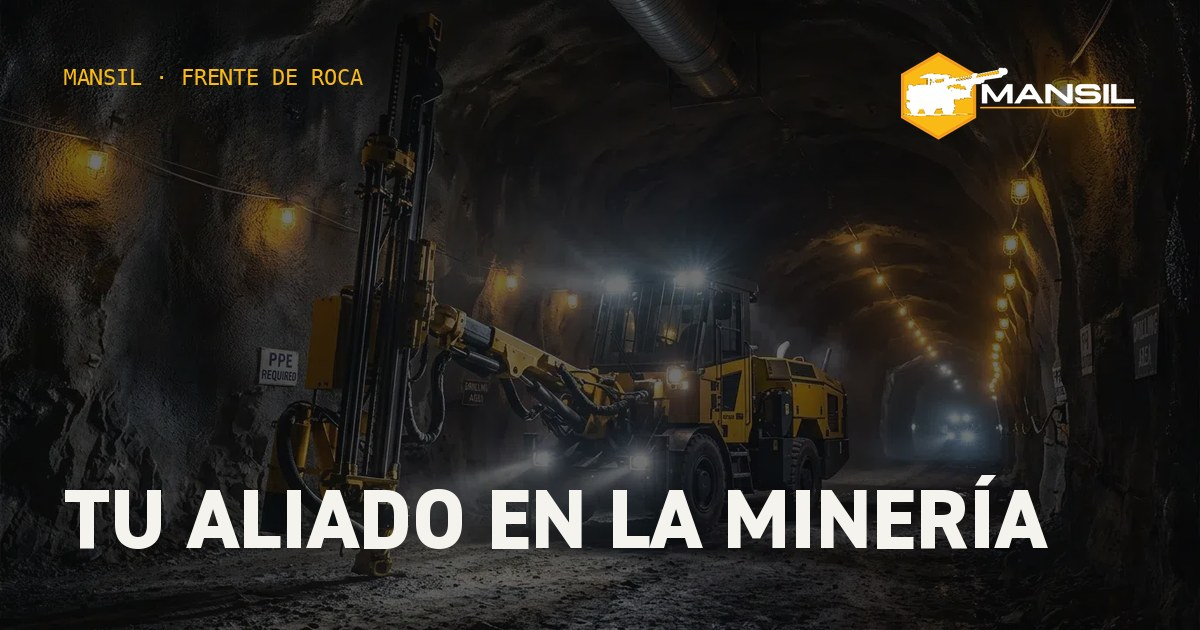
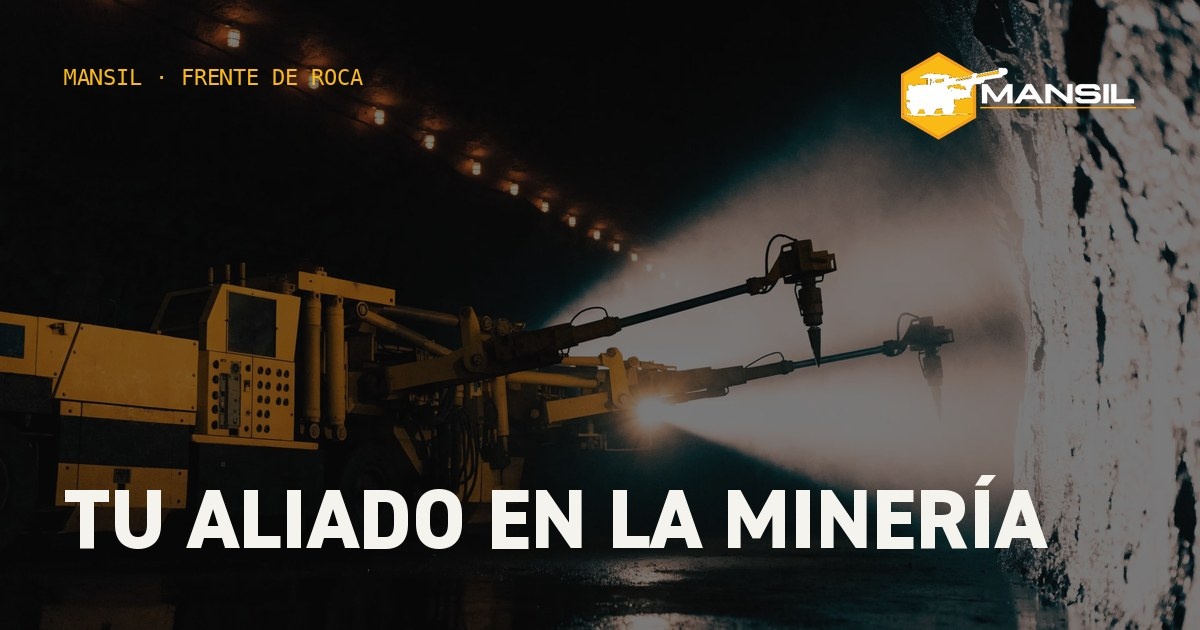
Imágenes generadas con Higgsfield (Recraft V4.1 2k) en las cinco direcciones
Diez fotos propias en la paleta negro/amarillo de Mansil reemplazan las de prensa
y stock: mina con jumbo, técnico en banco de pruebas, brazo de perforadora,
cargador subterráneo, faena de cobre, salinas, manómetros, pieza hidráulica,
linterna y bahía de reparación. OG regenerados.

diff --git a/opcion-1.html b/opcion-1.html
@@ -261,8 +261,8 @@ h2{font-weight:800;text-transform:uppercase;letter-spacing:-.02em;line-height:.9
         <li><span class="n">05</span><div><b>Unidades de rotación de equipos Boomer</b><small>También modelos Montabert y otros equipos equivalentes.</small></div></li>
       </ol>
       <figure class="fig rv">
-        <img src="img/eq/jumbo-frente.jpg" alt="Jumbo de perforación frontal en una galería de roca" width="1264" height="672" loading="lazy">
-        <figcaption class="tag">Perforación frontal</figcaption>
+        <img src="img/eq/jumbo-frente.jpg" alt="Perforadora y brazo de jumbo en el taller" width="1600" height="2057" loading="lazy">
+        <figcaption class="tag">Perforadora en taller</figcaption>
       </figure>
     </div>
   </div>
@@ -292,7 +292,7 @@ h2{font-weight:800;text-transform:uppercase;letter-spacing:-.02em;line-height:.9
       <h2>Donde se desgasta el equipo</h2>
     </div>
     <article class="faena">
-      <div class="fimg rv"><img src="img/eq/camion-cielo.jpg" alt="Camión minero en una faena a rajo abierto" width="1024" height="683" loading="lazy"></div>
+      <div class="fimg rv"><img src="img/eq/camion-cielo.jpg" alt="Perforadora rotativa en una faena de cobre a rajo abierto" width="1920" height="1097" loading="lazy"></div>
       <div class="rv">
         <span class="k">Minería de cobre · rajo y subterránea</span>
         <h3 style="margin-top:.8rem">Roca dura, 24/7 y altura</h3>
@@ -301,7 +301,7 @@ h2{font-weight:800;text-transform:uppercase;letter-spacing:-.02em;line-height:.9
       </div>
     </article>
     <article class="faena alt">
-      <div class="fimg rv"><img src="img/eq/retro.jpg" alt="Retroexcavadora trabajando sobre terreno seco" width="543" height="600" loading="lazy"></div>
+      <div class="fimg rv"><img src="img/eq/retro.jpg" alt="Cargador frontal en una salina" width="1920" height="1097" loading="lazy"></div>
       <div class="rv">
         <span class="k">Minería de sal y salinas</span>
         <h3 style="margin-top:.8rem">Humedad, corrosión y polvo</h3>
@@ -350,7 +350,7 @@ h2{font-weight:800;text-transform:uppercase;letter-spacing:-.02em;line-height:.9
 </section>
 
 <section class="close" id="contacto">
-  <div class="close-bg"><img src="img/eq/toro-lh410.jpg" alt="" aria-hidden="true" width="1724" height="1050" loading="lazy"></div>
+  <div class="close-bg"><img src="img/eq/linterna.jpg" alt="" aria-hidden="true" width="1920" height="1097" loading="lazy"></div>
   <div class="wrap">
     <span class="k rv">Cotiza hoy</span>
     <h2 class="rv" style="margin-top:.8rem">Dinos qué equipo se detuvo.</h2><!-- COPY PROPUESTO -->

diff --git a/opcion-4.html b/opcion-4.html
@@ -140,7 +140,7 @@ html.js .cap.in .rv:nth-child(2){transition-delay:.08s}html.js .cap.in .rv:nth-c
 </section>
 
 <section class="cap" id="c1">
-  <div class="foto"><img src="img/eq/jumbo-frente.jpg" alt="Jumbo de perforación frontal" width="1264" height="672" loading="lazy"></div><div class="luz"></div>
+  <div class="foto"><img src="img/eq/bahia.jpg" alt="Bahía de reparación con un brazo de jumbo sobre soportes" width="1920" height="1097" loading="lazy"></div><div class="luz"></div>
   <span class="num" aria-hidden="true">01</span>
   <div class="in">
     <span class="k rv">01 · Perforadoras</span>
@@ -151,7 +151,7 @@ html.js .cap.in .rv:nth-child(2){transition-delay:.08s}html.js .cap.in .rv:nth-c
 </section>
 
 <section class="cap" id="c2">
-  <div class="foto"><img src="img/eq/toro-lh410.jpg" alt="Cargador subterráneo con los focos encendidos" width="1724" height="1050" loading="lazy"></div><div class="luz"></div>
+  <div class="foto"><img src="img/eq/tecnico.webp" alt="Técnico probando una bomba hidráulica" width="1920" height="1097" loading="lazy"></div><div class="luz"></div>
   <span class="num" aria-hidden="true">02</span>
   <div class="in">
     <span class="k rv">02 · Bombas, brazos y rotación</span>
@@ -162,7 +162,7 @@ html.js .cap.in .rv:nth-child(2){transition-delay:.08s}html.js .cap.in .rv:nth-c
 </section>
 
 <section class="cap" id="c3">
-  <div class="foto"><img src="img/eq/sandvik-dl432i.jpg" alt="Equipo de perforación de producción en una galería" width="1736" height="974" loading="lazy"></div><div class="luz"></div>
+  <div class="foto"><img src="img/eq/sandvik-dl432i.jpg" alt="Manómetros del banco de pruebas hidráulico" width="1920" height="1248" loading="lazy"></div><div class="luz"></div>
   <span class="num" aria-hidden="true">03</span>
   <div class="in">
     <span class="k rv">03 · Banco de pruebas</span>
@@ -173,7 +173,7 @@ html.js .cap.in .rv:nth-child(2){transition-delay:.08s}html.js .cap.in .rv:nth-c
 </section>
 
 <section class="cap" id="c4">
-  <div class="foto"><img src="img/eq/camion-cielo.jpg" alt="Camión minero en rajo abierto" width="1024" height="683" loading="lazy"></div><div class="luz"></div>
+  <div class="foto"><img src="img/eq/camion-cielo.jpg" alt="Faena de cobre a rajo abierto" width="1920" height="1097" loading="lazy"></div><div class="luz"></div>
   <span class="num" aria-hidden="true">04</span>
   <div class="in">
     <span class="k rv">04 · Faenas</span>

diff --git a/opcion-2.html b/opcion-2.html
@@ -209,7 +209,7 @@ h2{font-weight:800;text-transform:uppercase;letter-spacing:-.025em;line-height:.
       </aside>
     </div>
     <figure class="hero-foto rv">
-      <img src="img/eq/tecnico.webp" alt="Mecánico interviniendo la hidráulica de un equipo pesado" width="1200" height="900" fetchpriority="high">
+      <img src="img/eq/tecnico.webp" alt="Técnico probando una bomba hidráulica en el banco de pruebas" width="1920" height="1097" fetchpriority="high">
     </figure>
   </div>
 </section>
@@ -227,7 +227,7 @@ h2{font-weight:800;text-transform:uppercase;letter-spacing:-.025em;line-height:.
         <li><span class="n">04</span><div><b>Perforadoras Tamrock HL500, HL510 y HLX5</b></div></li>
         <li><span class="n">05</span><div><b>Unidades de rotación de equipos Boomer</b><small>También modelos Montabert y otros equipos equivalentes.</small></div></li>
       </ol>
-      <figure class="fig rv"><img src="img/eq/jumbo-frente.jpg" alt="Jumbo de perforación frontal en galería" width="1264" height="672" loading="lazy"><figcaption>Perforadora de frente · brazo completo reparado en taller</figcaption></figure>
+      <figure class="fig rv"><img src="img/eq/jumbo-frente.jpg" alt="Perforadora y brazo de jumbo en el taller" width="1600" height="2057" loading="lazy"><figcaption>Perforadora de frente · brazo completo reparado en taller</figcaption></figure>
     </div>
   </div>
 </section>
@@ -260,7 +260,7 @@ h2{font-weight:800;text-transform:uppercase;letter-spacing:-.025em;line-height:.
           <li><span class="n">C</span><div><b>Desmantelación e instalación de repuestos</b></div></li>
         </ol>
       </div>
-      <figure class="fig b rv"><img src="img/eq/retro.jpg" alt="Retroexcavadora en terreno" width="543" height="600" loading="lazy"><figcaption>Servicio a equipos de apoyo · Komatsu · CAT</figcaption></figure>
+      <figure class="fig b rv"><img src="img/eq/retro.jpg" alt="Cargador frontal en una salina" width="1920" height="1097" loading="lazy"><figcaption>Servicio a equipos de apoyo · Komatsu · CAT</figcaption></figure>
     </div>
   </div>
 </section>
